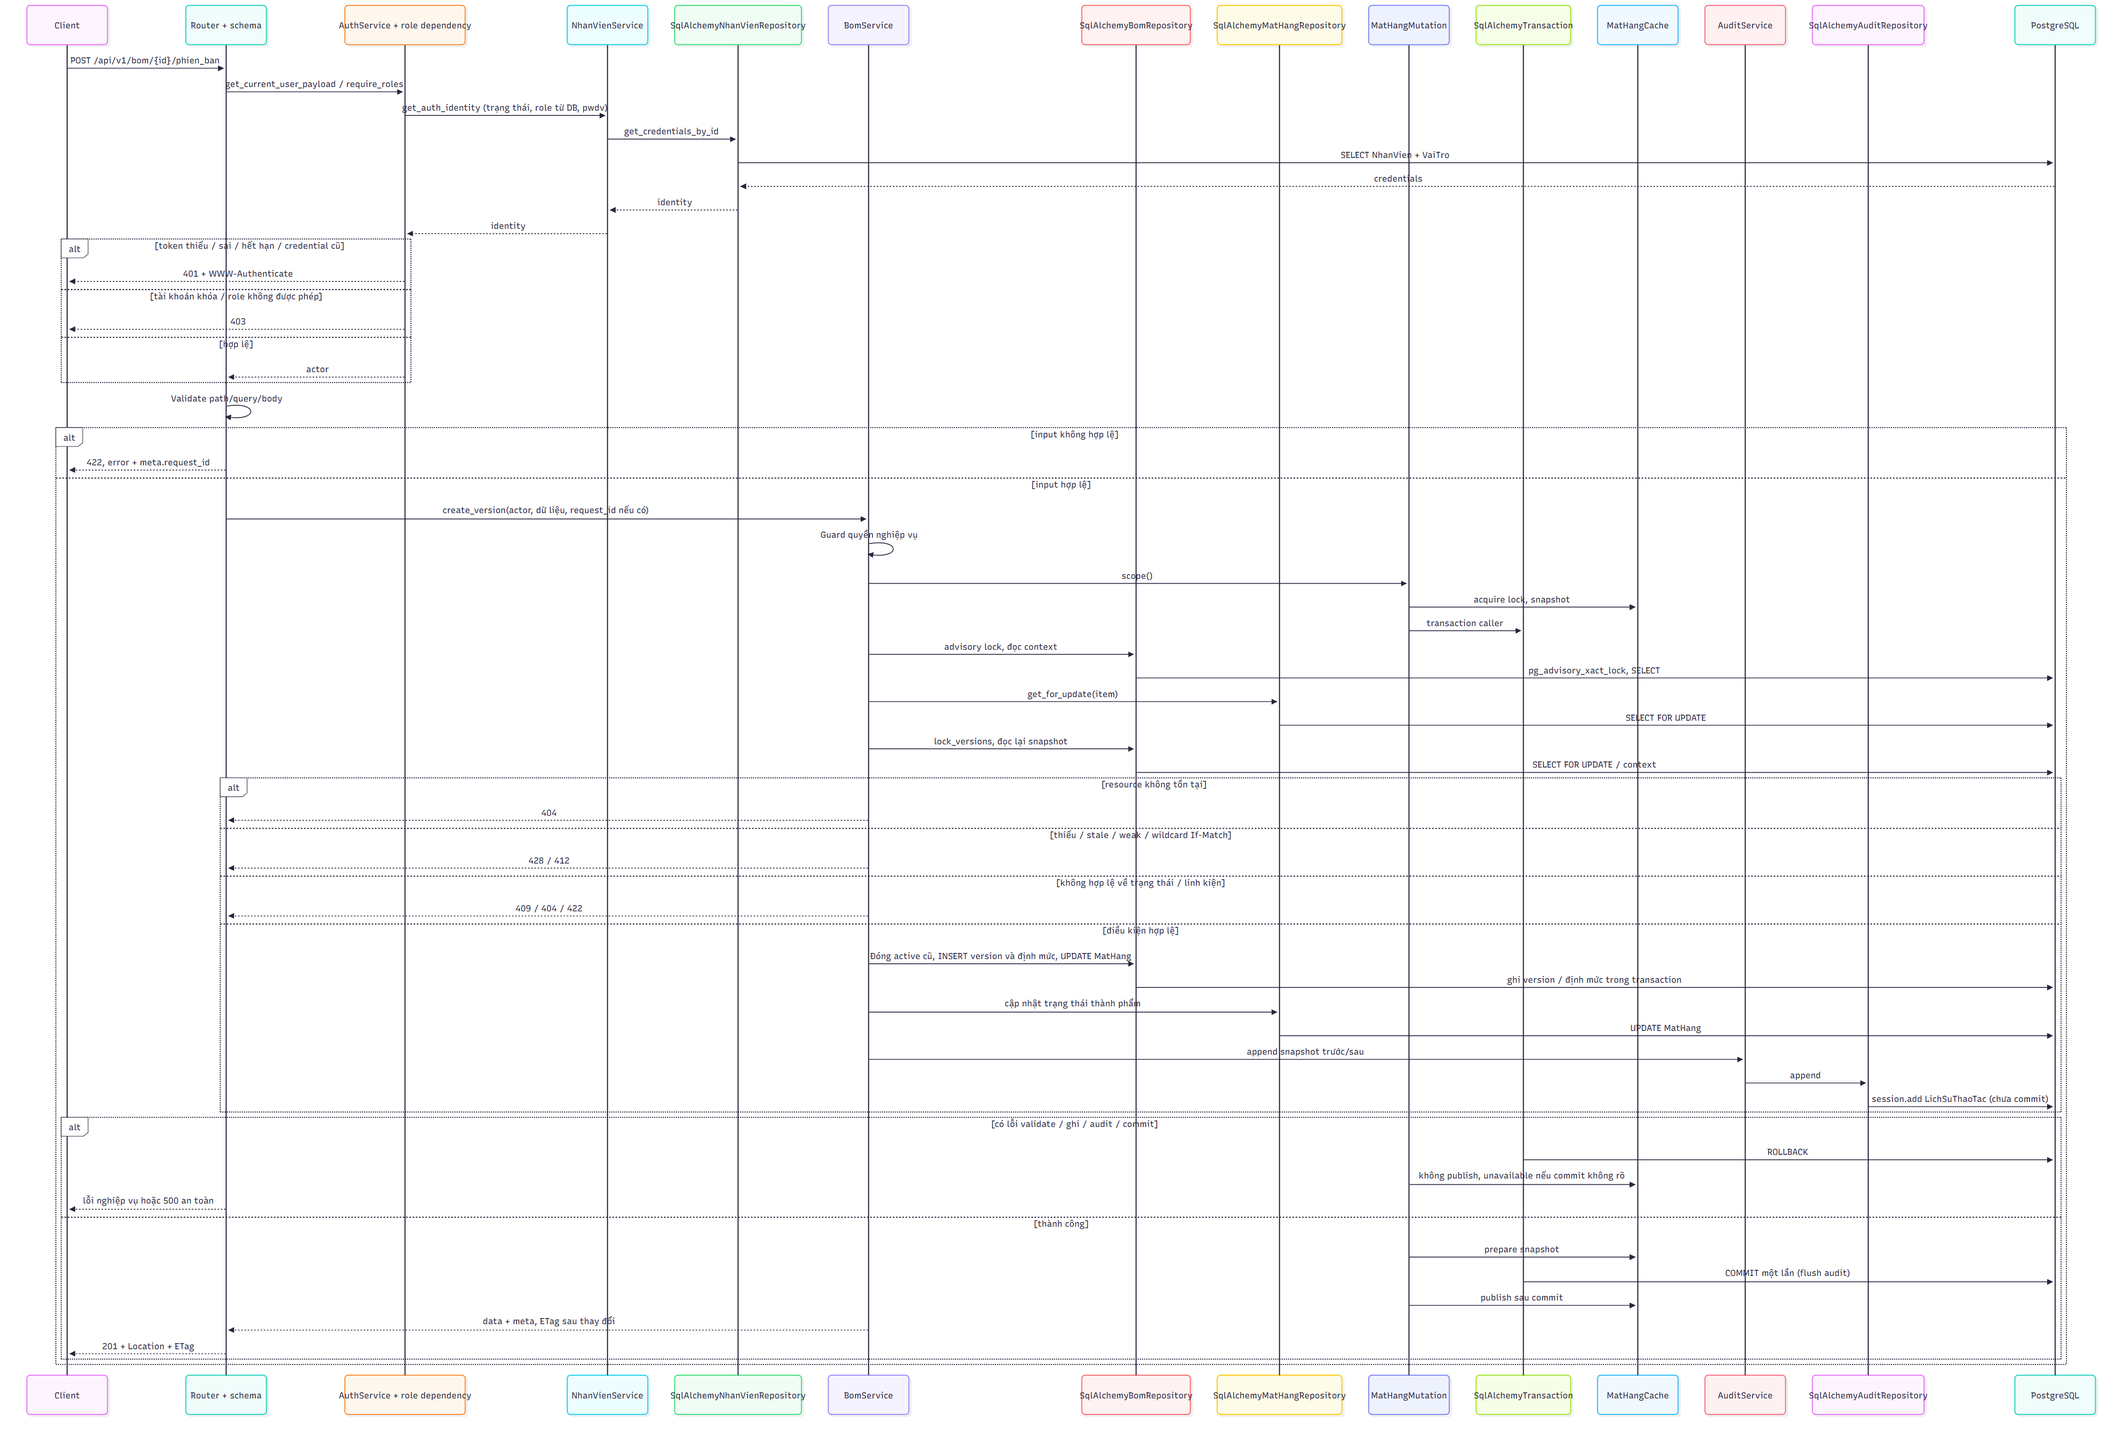
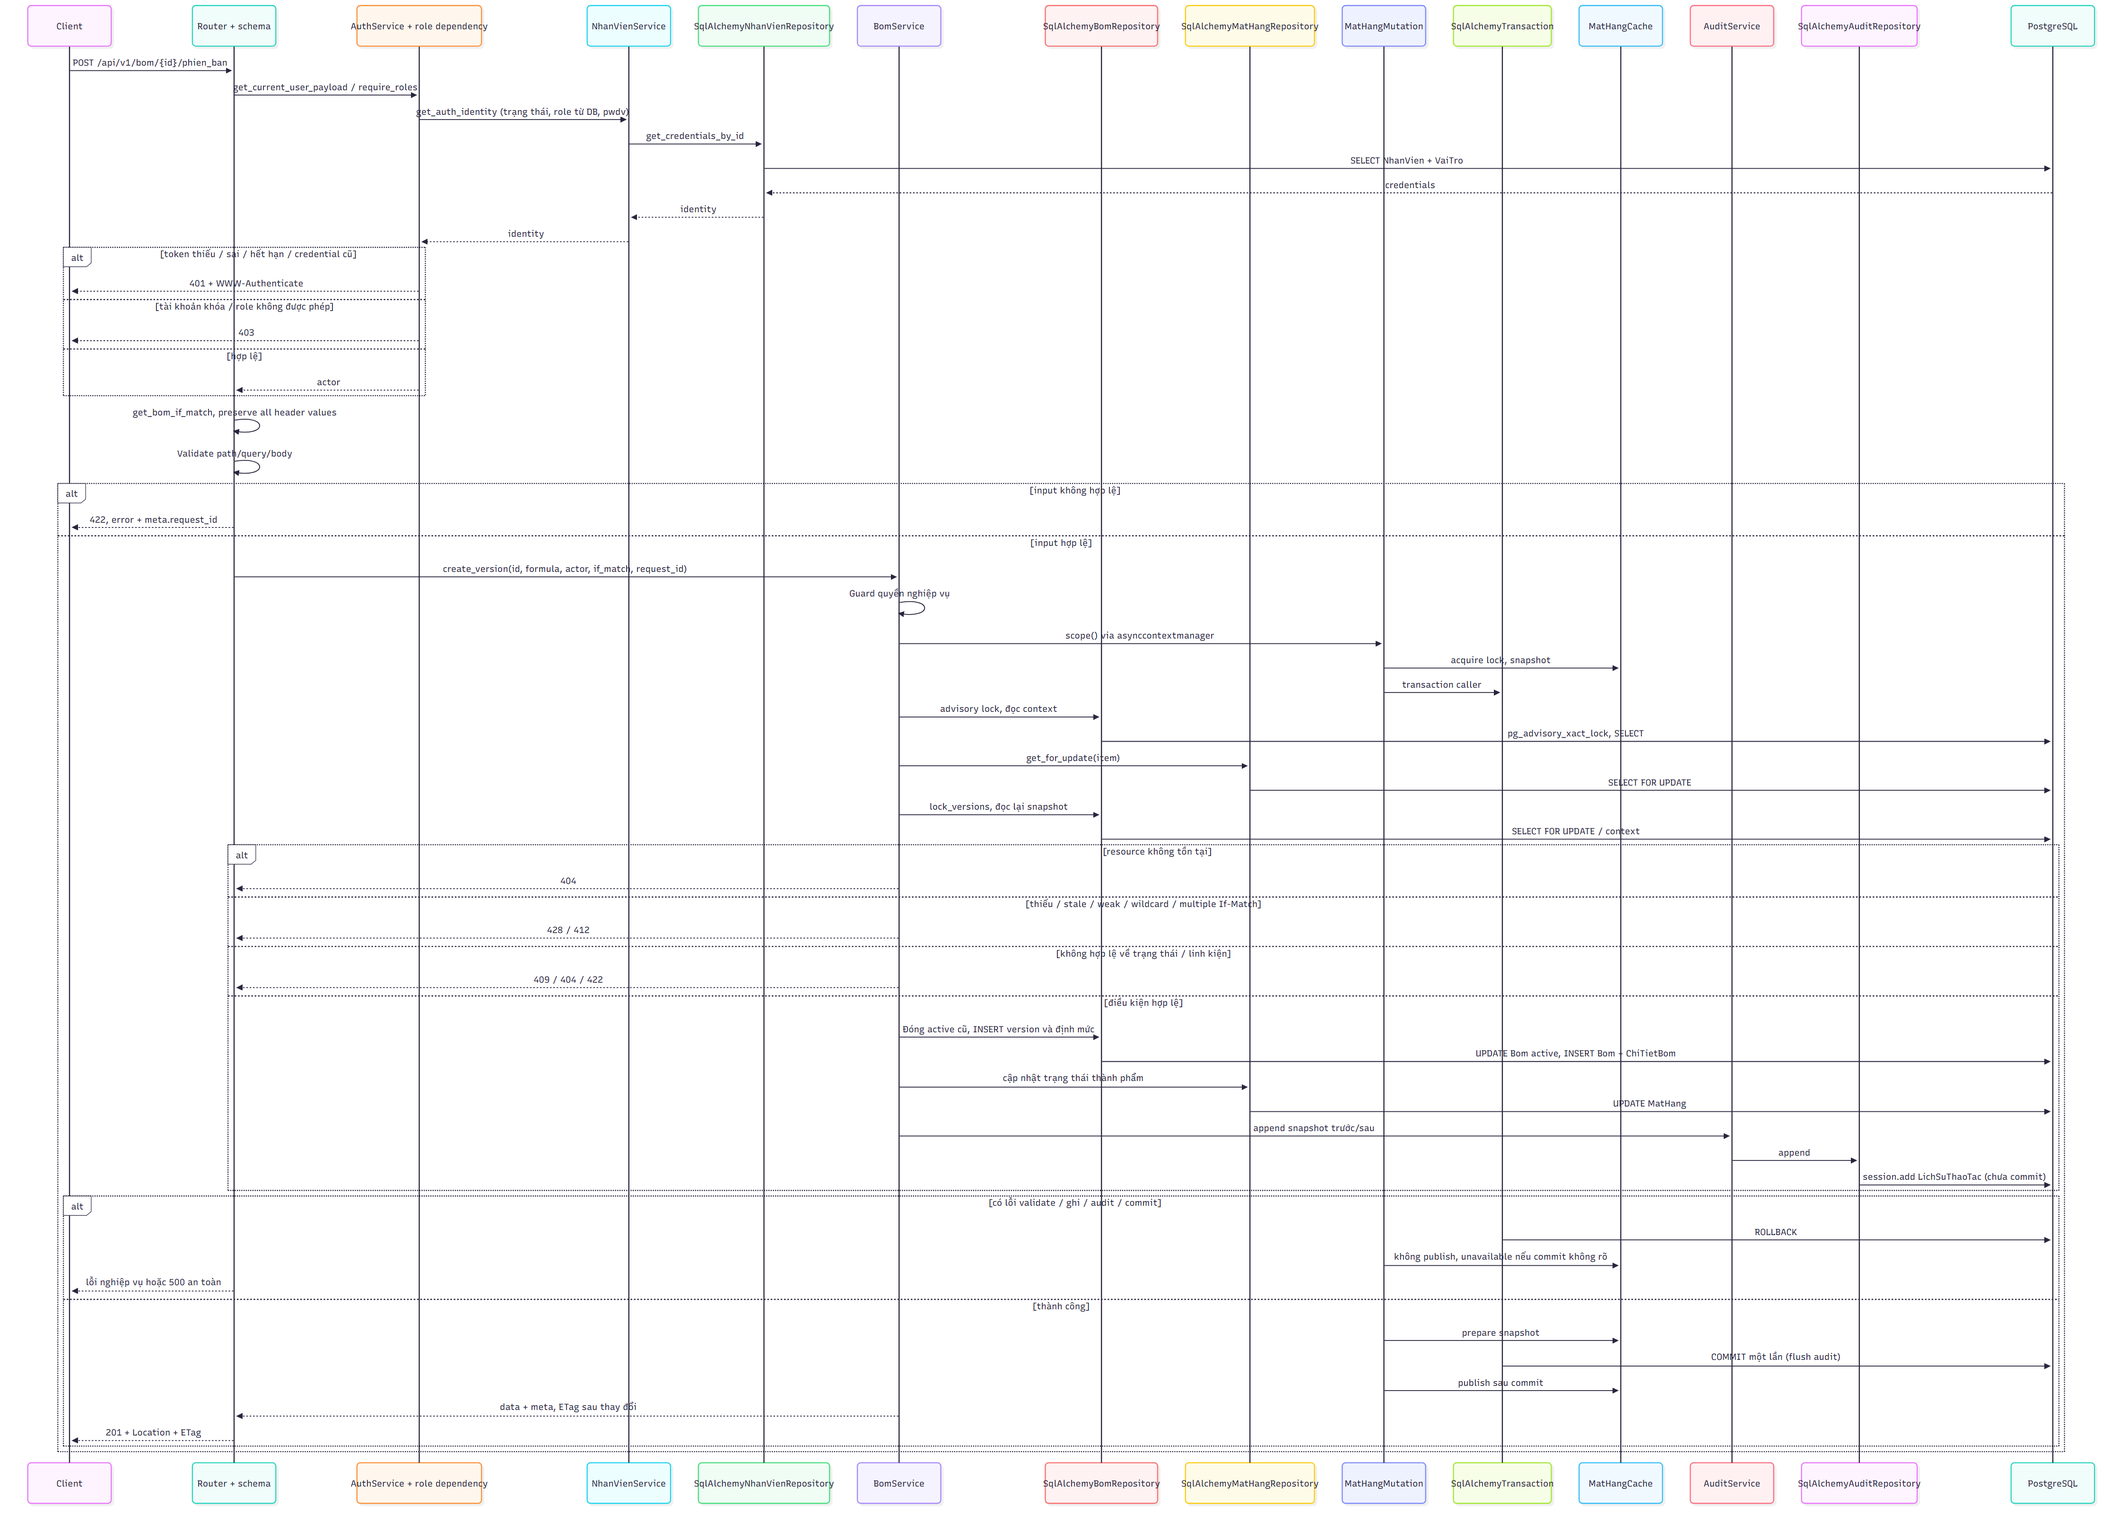
fix(bom): khôi phục mutation scope và kiểm tra If-Match lặp

diff --git a/backend/app/modules/bom/router.py b/backend/app/modules/bom/router.py
@@ -22,6 +22,21 @@ read_actor = require_roles(["quan_ly", "nhan_vien"])
 write_actor = require_roles(["quan_ly"])
 
 
+def get_bom_if_match(
+    request: Request,
+    if_match: Annotated[
+        str | None,
+        Header(
+            alias="If-Match",
+            description="Single strong ETag from GET detail; required at runtime (428)",
+        ),
+    ] = None,
+) -> str | None:
+    """UC-17/18/19: preserve all validators for the service comparison under lock."""
+    values = request.headers.getlist("if-match")
+    return ", ".join(values) if values else if_match
+
+
 async def reject_body(request: Request) -> None:
     if await request.body():
         raise InvalidInputException(message="Endpoint không nhận request body")
@@ -114,7 +129,7 @@ async def create_version(
     service: Annotated[BomService, Depends(get_bom_service)],
     request_id: Annotated[str, Depends(get_request_id)],
     response: Response,
-    if_match: Annotated[str | None, Header(alias="If-Match")] = None,
+    if_match: Annotated[str | None, Depends(get_bom_if_match)] = None,
 ) -> BomDetailResponse:
     result, etag = await service.create_version(id, payload, actor, if_match, request_id)
     response.headers["Location"] = f"/api/v1/bom/{result.data.id}"
@@ -133,7 +148,7 @@ async def delete_bom(
     id: Annotated[int, Path(gt=0)],
     actor: Annotated[dict, Depends(write_actor)],
     service: Annotated[BomService, Depends(get_bom_service)],
-    if_match: Annotated[str | None, Header(alias="If-Match")] = None,
+    if_match: Annotated[str | None, Depends(get_bom_if_match)] = None,
 ) -> Response:
     await service.delete_bom(id, actor, if_match)
     return Response(status_code=204)
@@ -153,7 +168,7 @@ async def activate_bom(
     request_id: Annotated[str, Depends(get_request_id)],
     payload: Annotated[KichHoatBomInput, Body()],
     response: Response,
-    if_match: Annotated[str | None, Header(alias="If-Match")] = None,
+    if_match: Annotated[str | None, Depends(get_bom_if_match)] = None,
 ) -> BomDetailResponse:
     result, etag = await service.activate_bom(id, actor, if_match, request_id)
     response.headers["ETag"] = etag

diff --git a/backend/tests/test_bom_api.py b/backend/tests/test_bom_api.py
@@ -109,6 +109,52 @@ async def test_bom_ac07_write_preconditions(client, database, value, status):
     assert await scalar(database, 'SELECT count(*) FROM "LichSuThaoTac"') == 2
 
 
+@pytest.mark.parametrize("second", ["same", '"stale"', "*", ""])
+@pytest.mark.parametrize(
+    "method,suffix,body",
+    [
+        ("POST", "/phien_ban", {"chi_tiet": [{"mat_hang_id": 1, "so_luong": 3}]}),
+        ("POST", "/kich_hoat", {}),
+        ("DELETE", "", None),
+    ],
+)
+async def test_bom_ac07_repeated_if_match_rejected_without_writes(
+    client, database, method, suffix, body, second
+):
+    """UC-17/18/19, T06/T07/T09: multiple physical headers are multiple validators."""
+    _, bom = await product(database)
+    path = f"/api/v1/bom/{bom}"
+    if suffix == "/kich_hoat":
+        current = await client.get(path, headers=headers())
+        stopped = await client.delete(
+            path, headers={**headers(), "If-Match": current.headers["etag"]}
+        )
+        assert stopped.status_code == 204, stopped.text
+
+    async def snapshot():
+        return [
+            await scalar(database, f'SELECT jsonb_agg(to_jsonb(t)) FROM "{name}" t')
+            for name in ("Bom", "ChiTietBom", "MatHang", "LichSuThaoTac")
+        ]
+
+    current = await client.get(path, headers=headers())
+    assert current.status_code == 200, current.text
+    tag = current.headers["etag"]
+    before, cached = await snapshot(), database.cache.snapshot()
+    auth = list(headers().items()) + [
+        ("If-Match", tag),
+        ("If-Match", tag if second == "same" else second),
+    ]
+    response = await client.request(method, path + suffix, headers=auth, json=body)
+
+    assert response.status_code == 412, response.text
+    assert set(response.json()) == {"error", "meta"}
+    assert await snapshot() == before
+    assert database.cache.snapshot() is cached
+    after = await client.get(path, headers=headers())
+    assert after.headers["etag"] == tag
+
+
 @pytest.mark.parametrize("user", [2, 3, 4])
 @pytest.mark.parametrize(
     "method,suffix,body",

diff --git a/backend/tests/test_bom_service.py b/backend/tests/test_bom_service.py
@@ -65,3 +65,54 @@ async def test_bom_ac01_write_guard_precedes_repository(roles):
         require_manager({"sub": "1", "roles": roles})
         await repo.add()
     repo.add.assert_not_called()
+
+
+async def test_bom_ac04_mutation_scope_commits_before_cache_publish(monkeypatch):
+    """T04: the shared scope must support async with and publish only after commit."""
+    from app.modules.mat_hang.cache import MatHangCache
+    from app.modules.mat_hang.mutation import MatHangMutation
+    from app.modules.mat_hang.schemas import MatHangRead
+
+    events = []
+
+    class Transaction:
+        async def __aenter__(self):
+            events.append("begin")
+            return self
+
+        async def __aexit__(self, exc_type, exc, traceback):
+            events.append("commit" if exc is None else "rollback")
+
+    cache = MatHangCache()
+    cache.replace([])
+    item = MatHangRead(
+        id=1,
+        ma_mat_hang="MH-000001",
+        ten_mat_hang="Frame",
+        sku="frame",
+        loai_mat_hang="linh_kien",
+        don_vi_tinh="chiec",
+        mau_sac=None,
+        mo_ta=None,
+        don_gia=100,
+        is_active=True,
+        so_luong_ton=0,
+        ton_kho_updated_at=None,
+    )
+    original = cache.publish
+
+    def publish(snapshot):
+        events.append("publish")
+        original(snapshot)
+
+    monkeypatch.setattr(cache, "publish", publish)
+    mutation = MatHangMutation(Transaction(), cache)
+    async with mutation.scope() as changes:
+        mutation.require_active()
+        changes.append(item)
+        events.append("body")
+
+    assert events == ["begin", "body", "commit", "publish"]
+    assert cache.snapshot().by_id[item.id] == item
+    with pytest.raises(RuntimeError, match="Caller must own"):
+        mutation.require_active()

diff --git a/backend/app/modules/mat_hang/mutation.py b/backend/app/modules/mat_hang/mutation.py
@@ -20,6 +20,7 @@ class MatHangMutation:
         if not self._active.get():
             raise RuntimeError("Caller must own the catalog mutation transaction")
 
+    @asynccontextmanager
     async def scope(self) -> AsyncIterator[list[MatHangRead]]:
         if self._active.get():
             raise RuntimeError("Nested catalog mutation would commit the caller's transaction")

diff --git a/docs/sequence/bom.md b/docs/sequence/bom.md
@@ -8,6 +8,13 @@ GET list mặc định page=1/page_size=20 (max 100), lọc AND theo mat_hang_id
 
 Tất cả mutation dùng một session/transaction chung cho MatHang, Bom, ChiTietBom và audit; thứ tự cache lock → advisory lock → item → version. Cache publish sau commit, lỗi commit không chắc chắn làm cache unavailable. Không đổi tồn/giữ hàng/ledger/yêu cầu đã chốt.
 
+Rà soát 14/11/2026 theo T04/T06/T07/T09: `MatHangMutation.scope()` dùng
+`@asynccontextmanager` để các service vào/ra transaction đúng bằng `async with`.
+Dependency `get_bom_if_match` chỉ gom mọi giá trị header, kể cả các header vật lý
+lặp tên, rồi chuyển xuống service. `verify_if_match` vẫn so sánh sau khi khóa và đọc
+lại resource: thiếu/rỗng 428, stale/weak/wildcard/nhiều giá trị 412. Không lấy riêng
+header đầu tiên; không đổi cách xử lý header của các module khác.
+
 ## GET /api/v1/bom
 
 UC-15; quyền QLK / NV. Đầu vào: BomListQuery; reject duplicate query / body. [PNG](assets/bom/bom-1.png).
@@ -187,13 +194,14 @@ sequenceDiagram
     else hợp lệ
         A-->>R: actor
     end
+    R->>R: get_bom_if_match, preserve all header values
     R->>R: Validate path/query/body
     alt input không hợp lệ
         R-->>C: 422, error + meta.request_id
     else input hợp lệ
-        R->>S: create_version(actor, dữ liệu, request_id nếu có)
+        R->>S: create_version(id, formula, actor, if_match, request_id)
         S->>S: Guard quyền nghiệp vụ
-        S->>M: scope()
+        S->>M: scope() via asynccontextmanager
         M->>K: acquire lock, snapshot
         M->>T: transaction caller
         S->>B: advisory lock, đọc context
@@ -204,13 +212,13 @@ sequenceDiagram
         B->>DB: SELECT FOR UPDATE / context
         alt resource không tồn tại
             S-->>R: 404
-        else thiếu / stale / weak / wildcard If-Match
+        else thiếu / stale / weak / wildcard / multiple If-Match
             S-->>R: 428 / 412
         else không hợp lệ về trạng thái / linh kiện
             S-->>R: 409 / 404 / 422
         else điều kiện hợp lệ
-            S->>B: Đóng active cũ, INSERT version và định mức, UPDATE MatHang
-            B->>DB: ghi version / định mức trong transaction
+            S->>B: Đóng active cũ, INSERT version và định mức
+            B->>DB: UPDATE Bom active, INSERT Bom + ChiTietBom
             S->>I: cập nhật trạng thái thành phẩm
             I->>DB: UPDATE MatHang
             S->>AU: append snapshot trước/sau
@@ -266,13 +274,14 @@ sequenceDiagram
     else hợp lệ
         A-->>R: actor
     end
+    R->>R: get_bom_if_match, preserve all header values
     R->>R: Validate path/query/body
     alt input không hợp lệ
         R-->>C: 422, error + meta.request_id
     else input hợp lệ
-        R->>S: activate_bom(actor, dữ liệu, request_id nếu có)
+        R->>S: activate_bom(id, actor, if_match, request_id)
         S->>S: Guard quyền nghiệp vụ
-        S->>M: scope()
+        S->>M: scope() via asynccontextmanager
         M->>K: acquire lock, snapshot
         M->>T: transaction caller
         S->>B: advisory lock, đọc context
@@ -283,7 +292,7 @@ sequenceDiagram
         B->>DB: SELECT FOR UPDATE / context
         alt resource không tồn tại
             S-->>R: 404
-        else thiếu / stale / weak / wildcard If-Match
+        else thiếu / stale / weak / wildcard / multiple If-Match
             S-->>R: 428 / 412
         else không hợp lệ về trạng thái / linh kiện
             S-->>R: 409 / 404 / 422
@@ -345,13 +354,14 @@ sequenceDiagram
     else hợp lệ
         A-->>R: actor
     end
+    R->>R: get_bom_if_match, preserve all header values
     R->>R: Validate path/query/body
     alt input không hợp lệ
         R-->>C: 422, error + meta.request_id
     else input hợp lệ
-        R->>S: delete_bom(actor, dữ liệu, request_id nếu có)
+        R->>S: delete_bom(id, actor, if_match)
         S->>S: Guard quyền nghiệp vụ
-        S->>M: scope()
+        S->>M: scope() via asynccontextmanager
         M->>K: acquire lock, snapshot
         M->>T: transaction caller
         S->>B: advisory lock, đọc context
@@ -362,13 +372,13 @@ sequenceDiagram
         B->>DB: SELECT FOR UPDATE / context
         alt resource không tồn tại
             S-->>R: 404
-        else thiếu / stale / weak / wildcard If-Match
+        else thiếu / stale / weak / wildcard / multiple If-Match
             S-->>R: 428 / 412
         else không hợp lệ về trạng thái / linh kiện
             S-->>R: 409 / 404 / 422
         else điều kiện hợp lệ
-            S->>B: UPDATE Bom và MatHang inactive, không DELETE
-            B->>DB: ghi version / định mức trong transaction
+            S->>B: deactivate version, không DELETE
+            B->>DB: UPDATE Bom is_active=false, không sửa định mức
             S->>I: cập nhật trạng thái thành phẩm
             I->>DB: UPDATE MatHang
             S->>AU: append snapshot trước/sau

diff --git a/specs/use_cases/bom/PLAN.md b/specs/use_cases/bom/PLAN.md
@@ -345,10 +345,32 @@ chọn. Không sửa ngược database hoặc xóa version/audit đã ghi để 
 
 ## Open questions
 
-Không còn câu hỏi nghiệp vụ Q1–Q6; chúng đã được duyệt. Các lựa chọn kỹ thuật trong
-plan này, đặc biệt POST `/{id}/phien_ban` thay POST cũ, request catalog, resource ETag,
-scope mutation/cache và phần audit/catalog phụ thuộc, **chờ dev duyệt plan**.
+Không còn câu hỏi nghiệp vụ Q1–Q6; spec và các lựa chọn kỹ thuật trong plan đã được
+dev duyệt trước triển khai. Dev tiếp tục cho phép khắc phục hai lỗi đã tái hiện
+trong lượt rà soát nhánh feature/bom, theo các task dưới đây.
 
 Giới hạn đã biết: 8 test nền nhân viên chưa pass; chưa xác nhận schema database
 ứng dụng đang chạy; chưa tích hợp sản xuất v4/E2E và frontend. Các trường hợp đó
 không được giải quyết bằng tự mở rộng phạm vi, sửa kỳ vọng test hay thao tác DB thật.
+
+## Khắc phục sau rà soát — 14/11/2026
+
+Đây là sửa code cho đúng plan đã duyệt, không thêm nghiệp vụ hay thay API/schema.
+Nguồn cần đối chiếu: mục C về mutation, mục D về strong ETag và BOM-AC-04/07.
+
+| Task gốc | Kết quả bản sửa | AC / kiểm chứng |
+|---|---|---|
+| T04 | Khôi phục `@asynccontextmanager` trên MatHangMutation.scope | BOM-AC-04, UC-16–19: `test_bom_ac04_mutation_scope_commits_before_cache_publish`, các test atomic/rollback cũ |
+| T06/T07 | Dependency cục bộ get_bom_if_match giữ mọi giá trị header của ba mutation; service so tag dưới khóa như trước | UC-17/18/19, BOM-AC-07: 12 ca `test_bom_ac07_repeated_if_match_rejected_without_writes`, missing/stale/weak/wildcard và happy path hiện có |
+| T09 | Kiểm thử trên PostgreSQL riêng bằng init.sql thực, không wrapper decorator | 118 test BOM/tích hợp pass; toàn suite 118 pass, 8 lỗi nền nhân viên thiếu VaiTroRead.mo_ta; mypy 25 source files pass, Ruff pass |
+| T10 | Cập nhật sequence BOM/PNG, HTTP evidence và bảng truy vết | 6 diagram BOM render thành công; 16 ví dụ HTTP gồm 5 ví dụ bổ sung; [kết quả/truy vết](README.md#8-kết-quả-triển-khai-và-truy-vết-thực-tế) |
+
+File source/test sửa: `mat_hang/mutation.py`, `bom/router.py`,
+`tests/test_bom_service.py`, `tests/test_bom_api.py`. File tài liệu/evidence sửa:
+`docs/sequence/bom.md`, ba PNG mutation BOM tương ứng, `docs/examples/bom-http.json`,
+README/PLAN của BOM. Không đổi core helper dùng chung của chứng từ, service/repository
+nghiệp vụ, frontend, SQL, seed, migration, dependency hoặc database ứng dụng.
+
+Rollback: dev review đúng diff hai runtime file và các test/tài liệu đi kèm; không
+reset branch hoặc dữ liệu. Bỏ riêng decorator sẽ tái tạo lỗi 500; bỏ phần gom header
+sẽ tái tạo lỗi chấp nhận header lặp. Không tự commit/push hoặc chạy migration.
